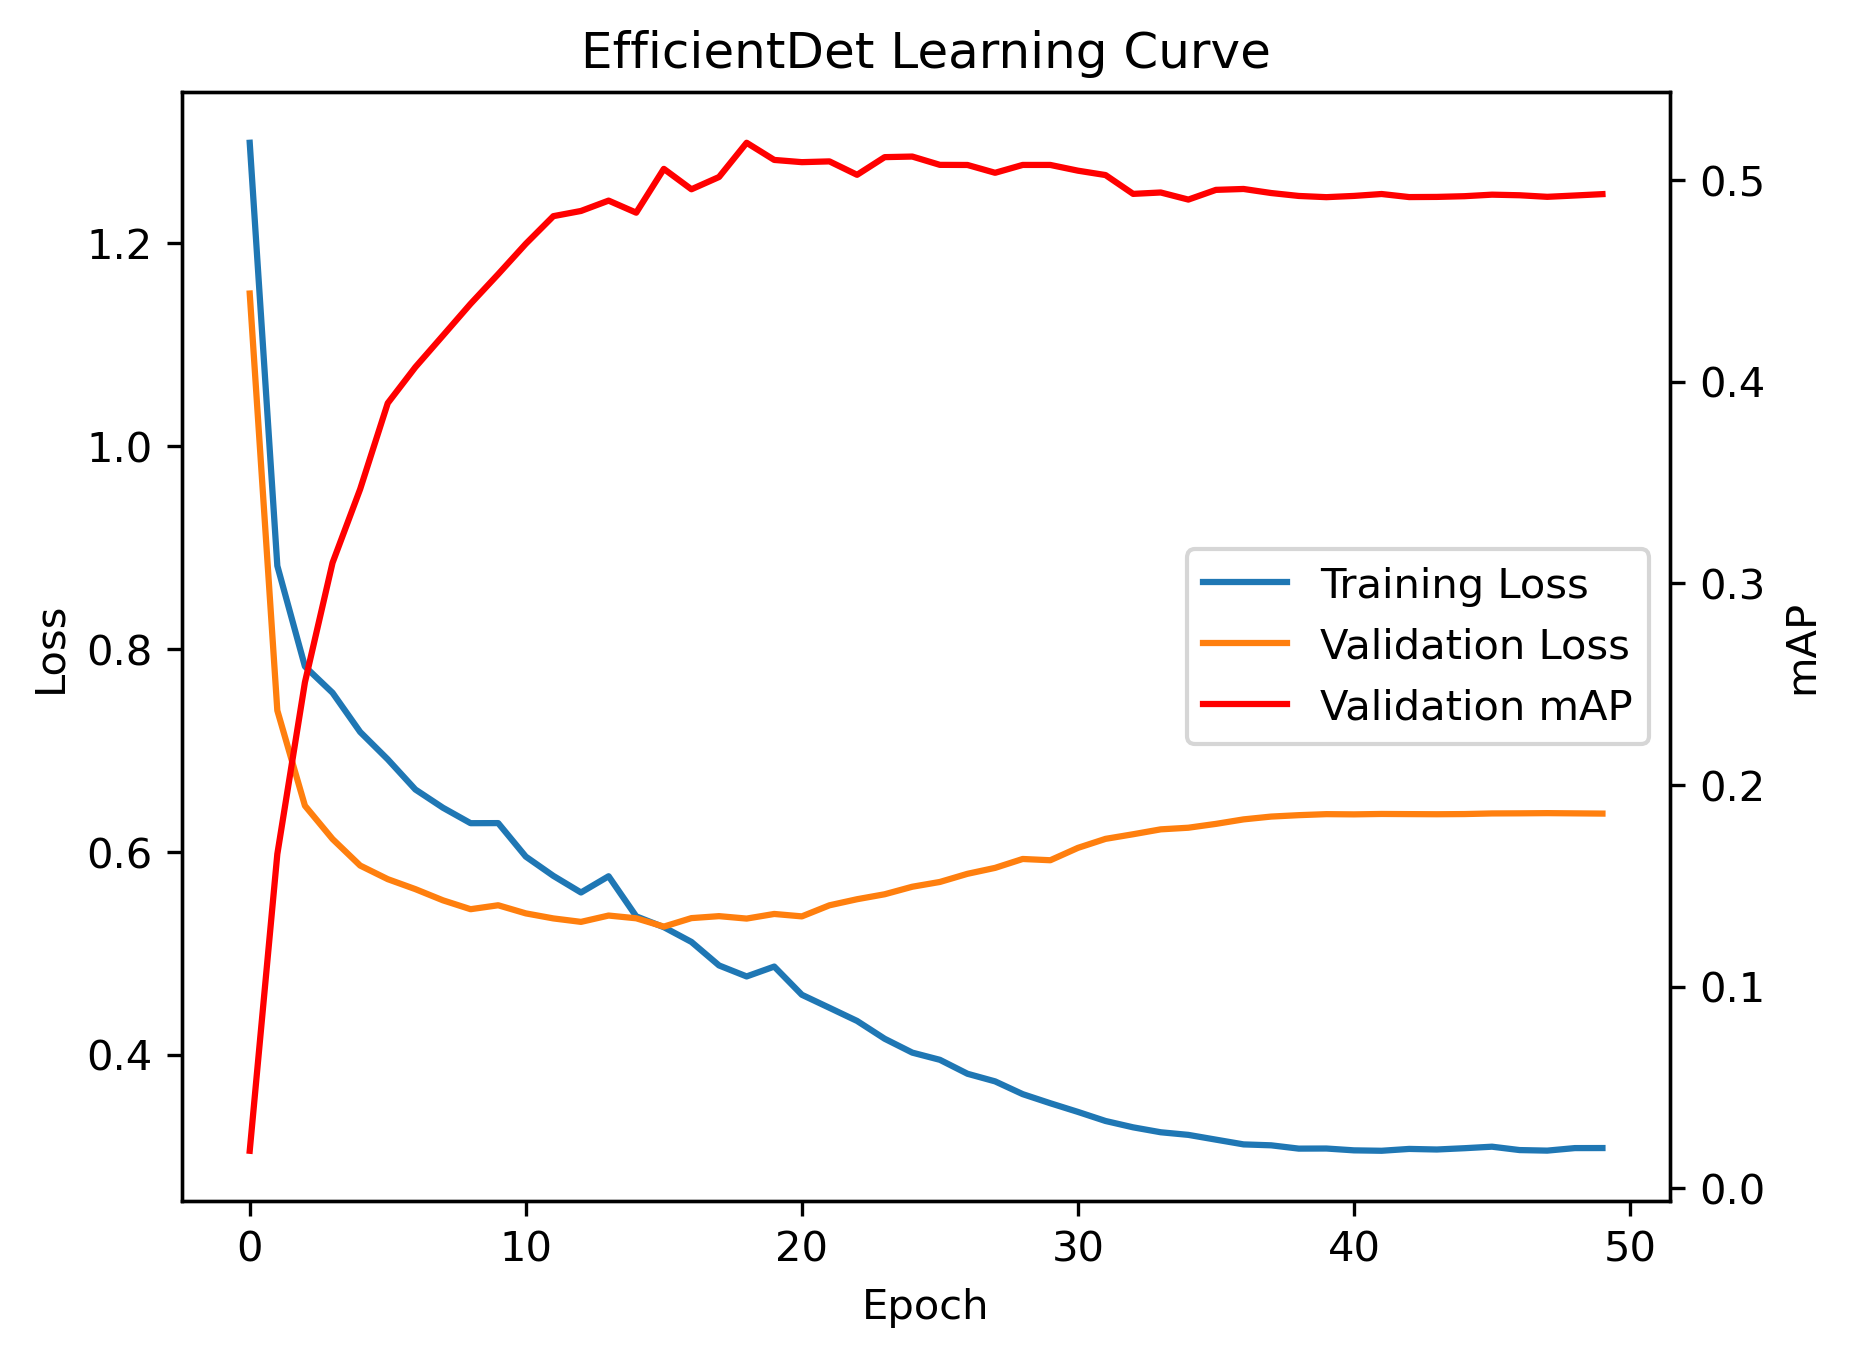
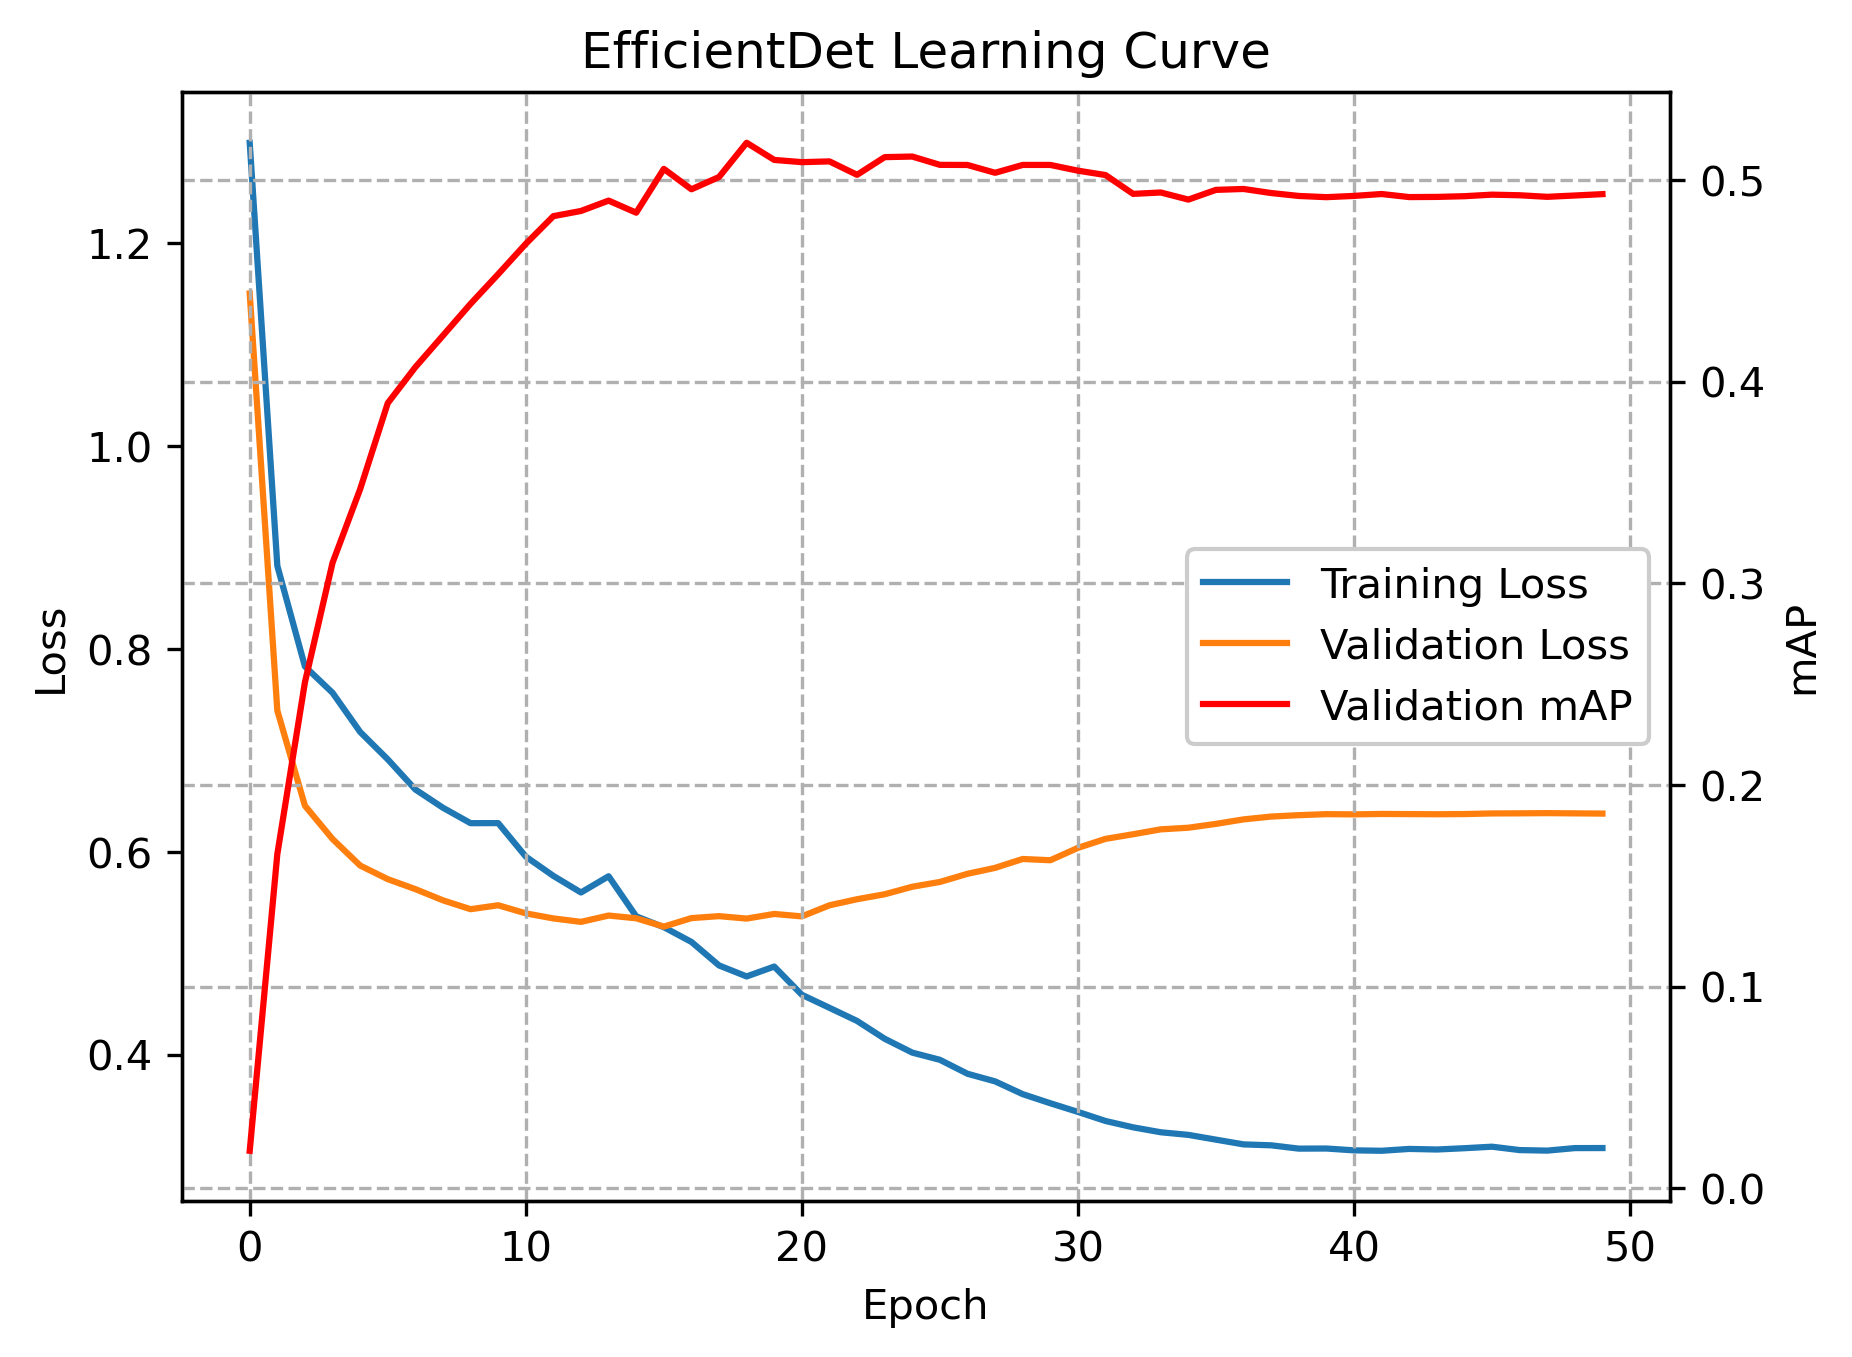
Update EfficientDet learning curve

diff --git a/FoodforDeepThought/personal_folders/joe/efficientdet_analysis.py b/FoodforDeepThought/personal_folders/joe/efficientdet_analysis.py
@@ -18,10 +18,15 @@ def run():
     ax2 = ax1.twinx()
     map_df.plot(ax=ax2, color='red')
     ax2.set_ylabel("mAP")
+    ax1.get_xaxis().set_visible(False)
+    ax2.get_xaxis().set_visible(True)
+    ax2.grid(linestyle='--')
+    ax2.set_xlabel("Epoch")
     handles1, labels1 = ax1.get_legend_handles_labels()
     handles2, labels2 = ax2.get_legend_handles_labels()
-    ax1.legend(handles1 + handles2, labels1 + labels2, loc='center right')
-    ax2.legend().remove()
+    ax2.legend(handles1 + handles2, labels1 + labels2, loc='center right', facecolor='white', framealpha=1)
+    ax1.legend().remove()
+    # ax2.set_axisbelow(True)
     plt.savefig(fname='efficientdet-learning-curve.png', bbox_inches='tight', dpi=300)
     plt.show()
 
